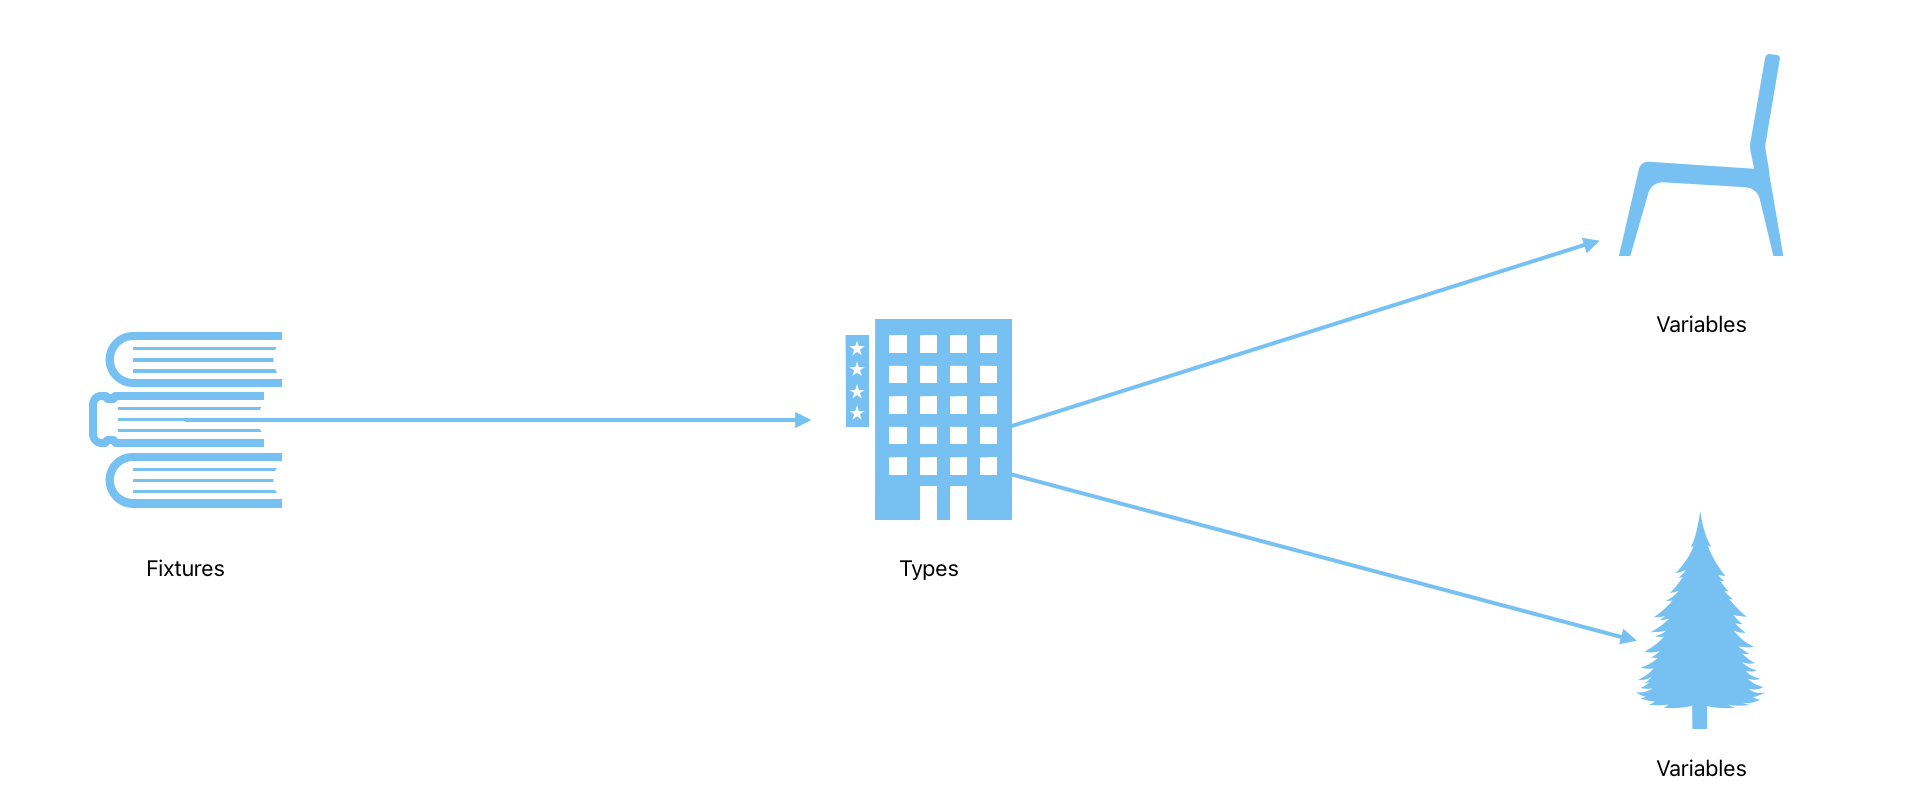
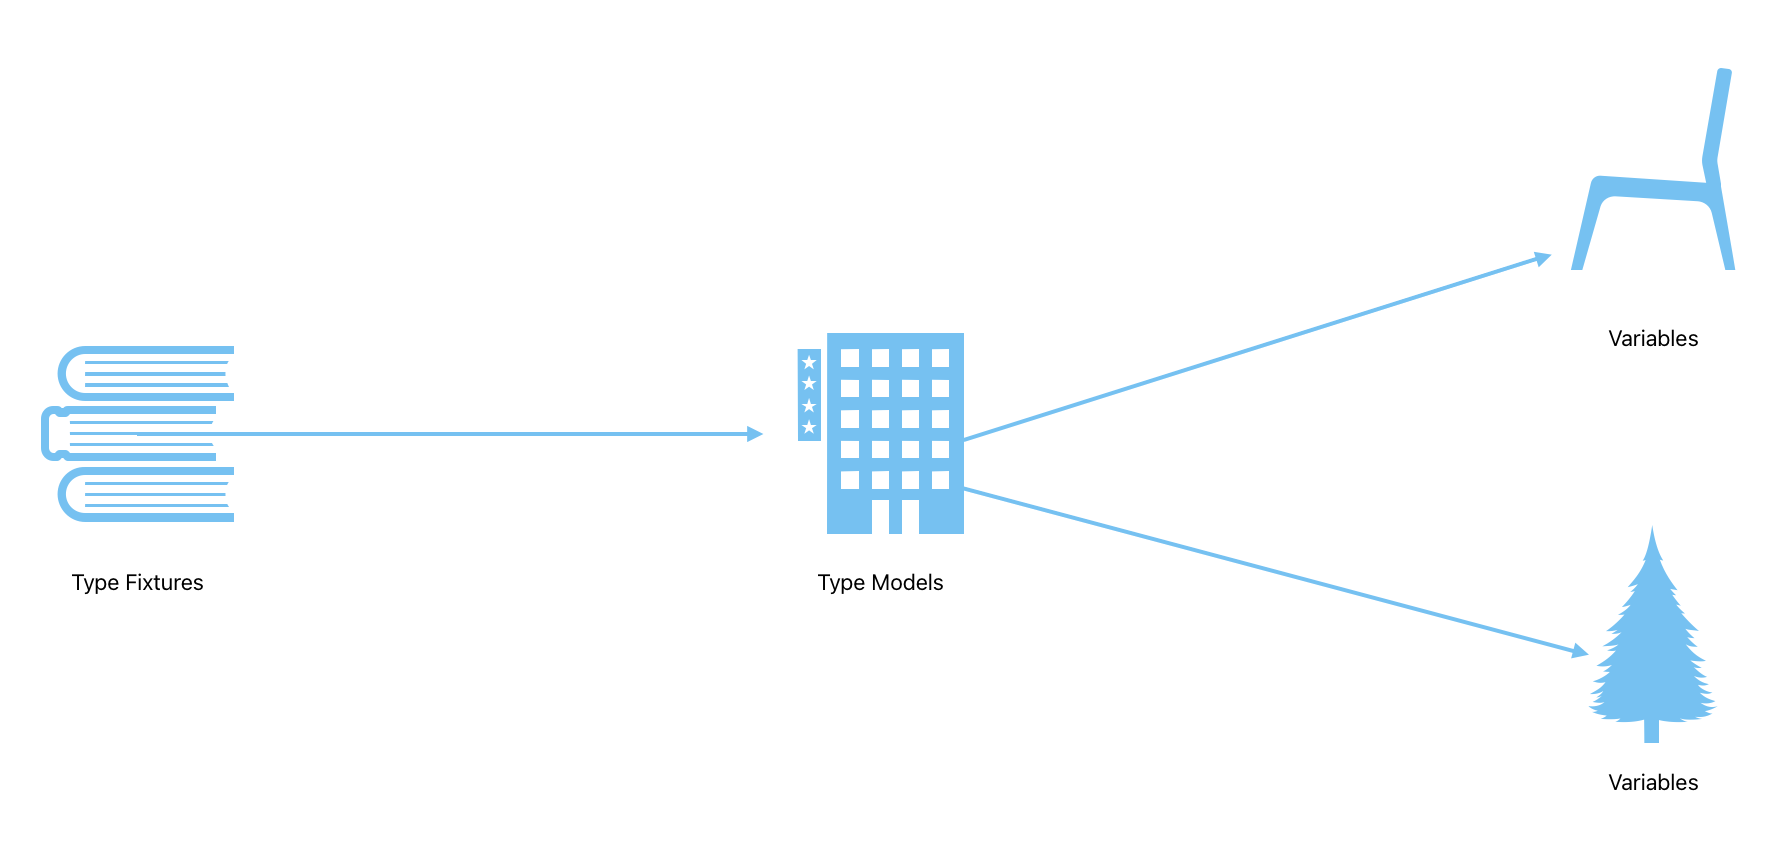
📝 Improve Documentation Clarity

diff --git a/README.md b/README.md
@@ -3,4 +3,4 @@ This repository demonstrates how a team can scale their type collections accordi
 
 ### 🧱 System Architecture
 ![System Architecture](graphics/system-architecture-graphic.png)
-Fixtures are nothing but the technical documentation or sample variables that inform models about the types that need to have. With this approach, developers will not only see the type of a variable, but they will also understand its deeper purpose by reviewing the fixture related to the variable they are dealing with.
+Fixtures are nothing but the technical documentation or sample models which dictate reference or type models all required properties to have. With this approach, developers will not only see the type of a variable, but they will also understand its deeper purpose by reviewing the fixture related to the variable they are dealing with.
